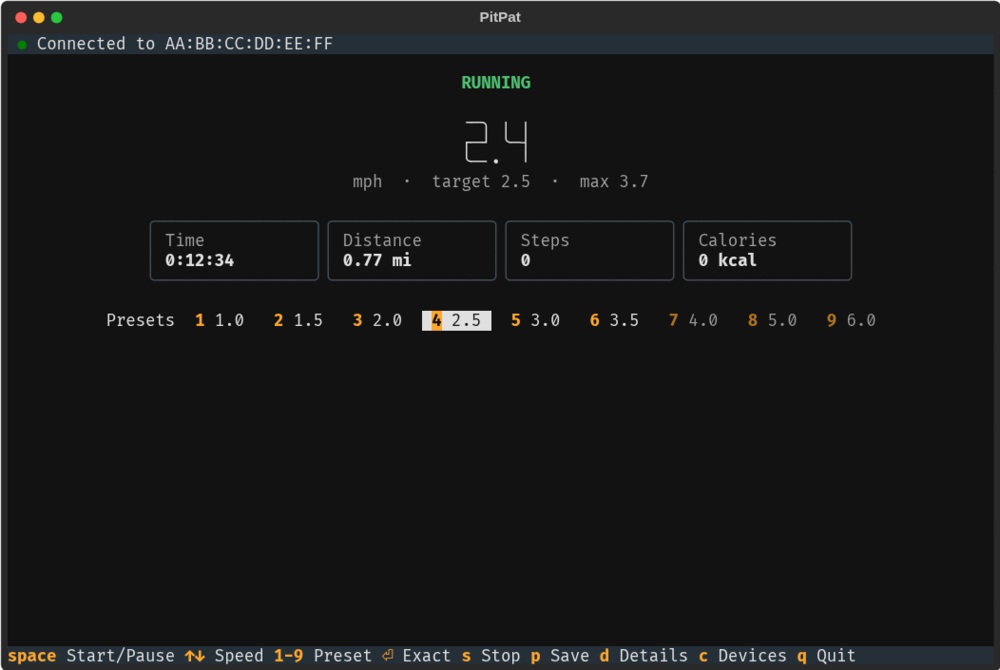
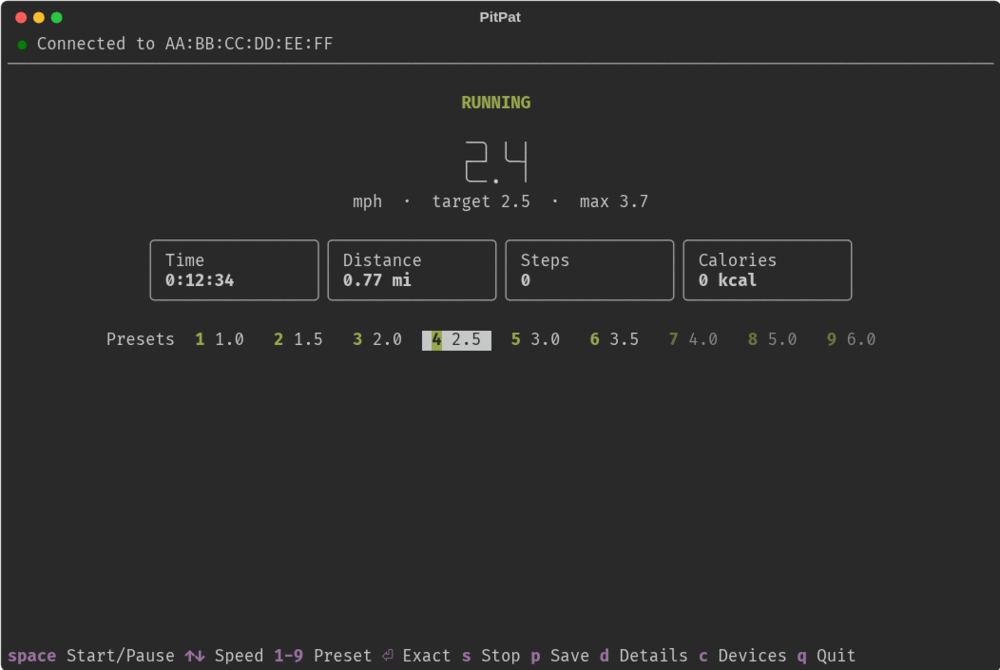
Follow the terminal's colours; don't scan while connecting
Uses Textual's ANSI themes so the UI takes the terminal's background
and palette. Opening the device picker now cancels an in-flight
connect, whose own scan made BlueZ reject the picker's with
"Operation already in progress".

Claude-Session: https://claude.ai/code/session_0124AFSvNiGQG7ZsqPqpmHRi

diff --git a/pitpat/app.py b/pitpat/app.py
@@ -1,6 +1,7 @@
 """The terminal UI."""
 import asyncio
 import logging
+import os
 import time
 from typing import Callable, Optional, Union
 
@@ -96,6 +97,7 @@ class DevicePicker(ModalScreen[Optional[str]]):
             devices_list.add_option(Option(f"{d.name}  [dim]{d.address}  {signal}[/]{saved}", id=d.address))
         status.update(f"Found {len(devices)}. Pick one with ↑↓ and Enter.")
         devices_list.display = True
+        devices_list.highlighted = 0
         devices_list.focus()
 
     @on(OptionList.OptionSelected, "#devices")
@@ -196,7 +198,9 @@ class Dashboard(Screen):
         variant = self.config.variant if address.upper() == (self.config.address or "").upper() else None
         self.connecting = True
         while True:
-            self.set_connection(f"[yellow]●[/] {'Reconnecting' if retry else 'Connecting'} to {address}…")
+            self.set_connection(
+                f"[yellow]●[/] {'Reconnecting' if retry else 'Connecting'} to {address}…  [dim](c to choose another)[/]"
+            )
             treadmill = self.make_treadmill(address, self.on_status, self.on_lost, variant)
             try:
                 await treadmill.connect()
@@ -369,6 +373,13 @@ class Dashboard(Screen):
         self.query_one("#details").toggle_class("shown")
 
     def action_pick_device(self, auto_pick: bool = False) -> None:
+        if self.connecting:
+            # Connecting scans for the device too, and BlueZ allows one scan at a time.
+            self.workers.cancel_group(self, "connection")
+            self.connecting = False
+            self.set_connection("[dim]●[/] Not connected")
+            self.refresh_view()
+
         def chosen(address: Optional[str]) -> None:
             if address:
                 self.connect(address)
@@ -465,12 +476,18 @@ class Dashboard(Screen):
         table.add_rows(rows)
 
 
+def terminal_is_light() -> bool:
+    """Best guess from COLORFGBG ("fg;bg"), which some terminals set; else dark."""
+    background = os.environ.get("COLORFGBG", "").split(";")[-1]
+    return background in ("7", "15")
+
+
 class PitPatApp(App):
     TITLE = "PitPat"
     ENABLE_COMMAND_PALETTE = False
     BINDINGS = [Binding("ctrl+c", "quit", show=False, priority=True)]
     CSS = """
-    #connection { padding: 0 1; background: $panel; }
+    #connection { padding: 0 1; border-bottom: solid ansi_bright_black; height: 2; }
     #main { align: center top; padding: 1 2; }
     #state { width: 100%; text-align: center; text-style: bold; color: $text-muted; }
     #state.running { color: $success; }
@@ -479,17 +496,18 @@ class PitPatApp(App):
     #speed { width: 100%; text-align: center; margin: 1 0 0 0; }
     #target { width: 100%; text-align: center; color: $text-muted; margin-bottom: 1; }
     #stats { height: auto; width: 100%; align-horizontal: center; }
-    .stat { width: 18; height: auto; border: round $panel-lighten-2; padding: 0 1; }
+    .stat { width: 18; height: auto; border: round ansi_bright_black; padding: 0 1; }
     .stat-title { color: $text-muted; }
     .stat-value { text-style: bold; }
     #presets { width: 100%; text-align: center; margin: 1 0; }
     #details { display: none; height: auto; max-height: 16; margin: 0 4; }
     #details.shown { display: block; }
     DevicePicker, SpeedPrompt { align: center middle; }
-    #picker { width: 80; max-width: 100%; height: auto; max-height: 90%; border: thick $primary; background: $surface; padding: 1 2; }
+    #picker { width: 80; max-width: 100%; height: auto; max-height: 90%; border: round $primary; background: $background; padding: 1 2; }
     #picker-title { text-style: bold; margin-bottom: 1; }
     #devices { height: auto; max-height: 12; margin: 1 0; }
-    #prompt { width: 44; height: auto; border: thick $primary; background: $surface; padding: 1 2; }
+    #devices > .option-list--option-highlighted { background: ansi_blue; color: ansi_bright_white; text-style: bold; }
+    #prompt { width: 44; height: auto; border: round $primary; background: $background; padding: 1 2; }
     """
 
     def __init__(self, config: Config, startup_speed: Optional[float] = None, make_treadmill: TreadmillFactory = ble.Treadmill):
@@ -497,6 +515,8 @@ class PitPatApp(App):
         self.dashboard = Dashboard(config, make_treadmill, startup_speed)
 
     def on_mount(self) -> None:
+        # Draw with the terminal's own background and palette rather than Textual's.
+        self.theme = "ansi-light" if terminal_is_light() else "ansi-dark"
         self.push_screen(self.dashboard)
 
     async def action_quit(self) -> None:

diff --git a/tests/test_app.py b/tests/test_app.py
@@ -164,3 +164,25 @@ def test_config_tolerates_hand_edits(tmp_path):
     presets = Config.load().presets
     assert presets[:3] == [2.0, 3.0, 1.0] and len(presets) == 9
     assert all(isinstance(p, float) for p in presets)
+
+
+async def test_choosing_device_cancels_slow_connect(monkeypatch):
+    """Scanning while bleak is still looking for the old address fails in BlueZ."""
+    class SlowTreadmill(FakeTreadmill):
+        async def connect(self):
+            await asyncio.sleep(60)
+
+    scanned = []
+
+    async def discover():
+        scanned.append(app.dashboard.connecting)
+        return []
+
+    monkeypatch.setattr(ble, "discover", discover)
+    app = PitPatApp(Config(address="AA:BB"), make_treadmill=SlowTreadmill)
+    async with app.run_test() as pilot:
+        await pilot.pause()
+        assert app.dashboard.connecting
+        await pilot.press("c")
+        await pilot.pause()
+        assert scanned == [False]
